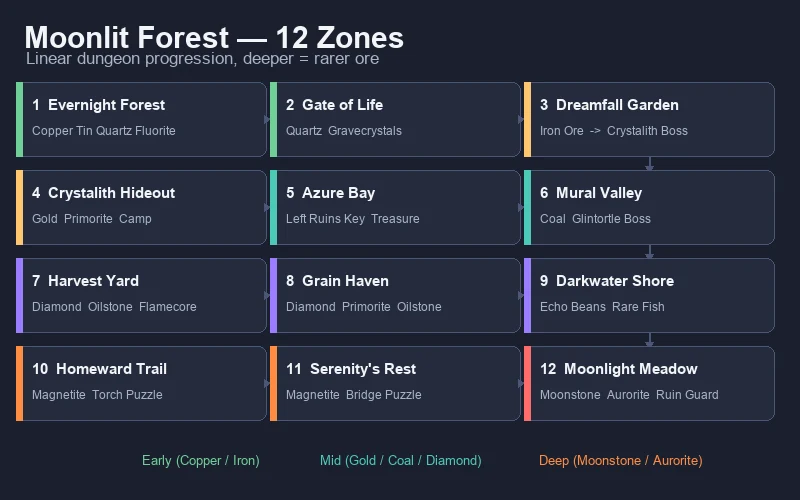
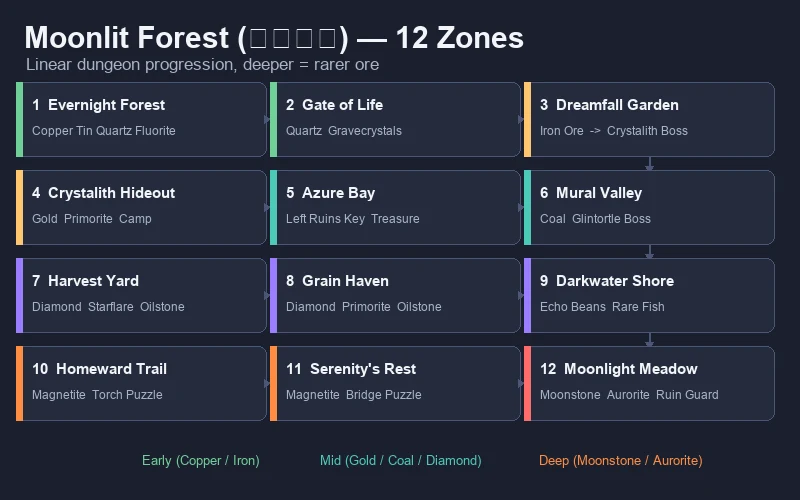
fix: apply polisher review to Starsand Island mining guide — Starflare tier, Electric Drill exception, currency + Chinese names

Changed region(s): [[0.0312, 0.03, 0.6562, 0.15], [0.0938, 0.6, 0.25, 0.63]]

diff --git a/docs/starsand-island/mining-crafting.md b/docs/starsand-island/mining-crafting.md
@@ -8,7 +8,7 @@ date: 2026-08-02
 
 > Game version: Early Access (Feb 12, 2026 launch) | Focus: Mining, Smelting & Tool Progression
 
-I've spent over 70 hours underground in Starsand Island since the EA launch, and mining is where this game quietly turns into a money printer. Farming gets all the attention, but the **Moonlit Forest dungeon** — 12 zones of ores, puzzles, and bosses tucked behind your own house — is the real engine room. Copper and Tin fund your first week, Iron and Gold carry your mid-game, and by the time you're smelting Aurorite at Furnace III, you're effectively self-funding every upgrade in the game.
+I've spent over 70 hours underground in Starsand Island since the EA launch, and mining is where this game quietly turns into a money printer. Farming gets all the attention, but the **Moonlit Forest (荧月之森) dungeon** — 12 zones of ores, puzzles, and bosses tucked behind your own house — is the real engine room. Copper and Tin fund your first week, Iron and Gold carry your mid-game, and by the time you're smelting Aurorite at Furnace III, you're effectively self-funding every upgrade in the game.
 
 This guide covers the entire mining pipeline: unlocking the dungeon, what ore spawns where, every tool tier and what it unlocks, all furnace recipes, and how to turn raw stone into steady gold.
 
@@ -43,12 +43,12 @@ Mining proper doesn't start with a pickaxe in hand — the real content lives be
 
 | Step | What to Do | Requirements |
 |:-----|:-----------|:------------|
-| 1 | Join the **Exploration Club** and talk to **Zephyria** (above Green Pasture Ranch) | — |
+| 1 | Join the **Exploration Club** and talk to **Zephyria (岚)** (above Green Pasture Ranch) | — |
 | 2 | Accept her tutorial quest and craft a **Slingshot** | Slingshot blueprint (workbench) |
 | 3 | Find the **Damaged Door** behind your farmhouse | Walk around the back of your starting plot |
 | 4 | Break the door with the Slingshot | Slingshot + ammo |
 | 5 | Step through the portal in the cavern | — |
-| 6 | Report to Zephyria to unlock the **Exploration skill tab** | — |
+| 6 | Report to Zephyria (岚) to unlock the **Exploration skill tab** | — |
 
 > **Tip:** The exploration path also unlocks your first **camp** and the **Moonweaver fast-travel network**. Do this quest before your first winter — the Furnace and tool upgrades it feeds become your most reliable income source once crops slow down.
 
@@ -56,26 +56,26 @@ Mining proper doesn't start with a pickaxe in hand — the real content lives be
 
 - A **Stone Pickaxe** (starter tool) to clear surface rocks and path debris
 - At least **15 Stamina-restoring food** — early mining eats stamina fast
-- The **Impulse Pickaxe blueprint** (500 coins from Zerine's shop) once you reach **Apprentice Crafter**
+- The **Impulse Pickaxe (冲击镐) blueprint** (500g from **Zerine (百里零)**'s shop) once you reach **Apprentice Crafter**
 
 ---
 
-## Moonlit Forest — 12-Zone Dungeon Walkthrough
+## Moonlit Forest (荧月之森) — 12-Zone Dungeon Walkthrough
 
 ![Starsand Island Moonlit Forest dungeon progression map showing all 12 zones in order](images/moonlit-forest-map.webp)
 
-The Moonlit Forest is a long, largely linear dungeon under the island. It is split into **12 named zones**, each with its own ores, enemies, and puzzles. You never need to memorize the whole thing — just follow the zone order and you will naturally collect the ores you need next.
+The Moonlit Forest (荧月之森) is a long, largely linear dungeon under the island. It is split into **12 named zones**, each with its own ores, enemies, and puzzles. You never need to memorize the whole thing — just follow the zone order and you will naturally collect the ores you need next.
 
 | # | Zone | Key Resources | Enemies / Puzzle | Milestone |
 |:-:|:-----|:--------------|:-----------------|:----------|
-| 1 | **Evernight Forest** | Copper, Tin, Quartz, Fluorite | Minimal | First ore nodes |
-| 2 | **Gate of Life** | Quartz, Gravecrystals | Runebird elite, gate puzzles | Gravestar collection |
-| 3 | **Dreamfall Garden** | **Iron Ore** | Luminpath butterfly puzzle | **Crystalith boss** |
-| 4 | **Crystalith Hideout** | **Gold**, Primorite | 3 hidden Gravestars | Camp + fast travel |
-| 5 | **Azure Bay** | (fishing, treasure) | Luminfrog, elevator | Left Ruins Key |
-| 6 | **Mural Valley** | **Coal** | Glintortle boss, Bronze Gate | Right Ruins Key |
-| 7 | **Harvest Yard** | Diamond, Oilstone, Flamecore | Fire/Water arrow barriers | Late-game ore zone |
-| 8 | **Grain Haven** | Diamond, Oilstone, Primorite | Calm mining zone | Deep mining hub |
+| 1 | **Evernight Forest (永夜森林)** | Copper, Tin, Quartz, Fluorite | Minimal | First ore nodes |
+| 2 | **Gate of Life (生机之门)** | Quartz, Gravecrystals | Runebird elite, gate puzzles | Gravestar collection |
+| 3 | **Dreamfall Garden (梦落花园)** | **Iron Ore** | Luminpath butterfly puzzle | **Crystalith boss** |
+| 4 | **Crystalith Hideout (晶石之家)** | **Gold**, Primorite | 3 hidden Gravestars | Camp + fast travel |
+| 5 | **Azure Bay (碧水峡湾)** | (fishing, treasure) | Luminfrog, elevator | Left Ruins Key |
+| 6 | **Mural Valley (画壁)** | **Coal** | Glintortle boss, Bronze Gate | Right Ruins Key |
+| 7 | **Harvest Yard (丰收谷场)** | Diamond, Starflare Crystal, Oilstone, Flamecore | Fire/Water arrow barriers | Late-game ore zone |
+| 8 | **Grain Haven (眠禾乡)** | Diamond, Oilstone, Primorite | Calm mining zone | Deep mining hub |
 | 9 | **Darkwater Shore** | Echo Beans, rare fish | — | Unique farm crops |
 | 10 | **Homeward Trail** | Magnetite | Torch-lighting puzzle, Runebirds | Puzzle zone |
 | 11 | **Serenity's Rest** | Magnetite | Bridge puzzle (Gravecrystals) | Transition zone |
@@ -93,22 +93,23 @@ Every ore in Starsand Island has a home zone and a minimum tool tier. If your pi
 
 | Ore | First Found In | Tool Required | Smelts Into |
 |:----|:---------------|:--------------|:------------|
-| **Stone** | Surface / everywhere | Stone Pickaxe | Stone Brick |
+| **Stone (石头)** | Surface / everywhere | Stone Pickaxe | Stone Brick |
 | **Clay** | Surface / Evernight Forest | Stone Pickaxe | — (crafting) |
-| **Copper** | Evernight Forest (Zone 1) | Impulse Pickaxe | Copper Ingot → Copper Sheet / Bronze |
-| **Tin** | Evernight Forest (Zone 1) | Impulse Pickaxe | Tin Ingot → Bronze |
-| **Fluorite** | Evernight Forest (Zone 1) | Impulse Pickaxe | Radiant Core; repairs camps (5 per camp) |
-| **Quartz** | Gate of Life (Zone 2) | Impulse Pickaxe | Glass Brick → Glass Pane / Prism |
-| **Iron** | Dreamfall Garden (Zone 3) | Impulse Pickaxe | Iron Ingot → Iron Sheet / Alloy |
-| **Gold** | Crystalith Hideout (Zone 4) | Impact Hammer | Gold Ingot → Gold Sheet / Alloy / jewelry |
-| **Primorite** | Crystalith Hideout (Zone 4) | Impact Hammer | Late-game crafting |
-| **Coal** | Mural Valley (Zone 6) | Impact Hammer | Fuel for Furnace II / III |
+| **Copper (铜矿)** | Evernight Forest (Zone 1) | Impulse Pickaxe | Copper Ingot → Copper Sheet / Bronze |
+| **Tin (锡矿)** | Evernight Forest (Zone 1) | Impulse Pickaxe | Tin Ingot → Bronze |
+| **Fluorite (荧石)** | Evernight Forest (Zone 1) | Impulse Pickaxe | Radiant Core; repairs camps (5 per camp) |
+| **Quartz (石英矿)** | Gate of Life (Zone 2) | Impulse Pickaxe | Glass Brick → Glass Pane / Prism |
+| **Iron (铁矿)** | Dreamfall Garden (Zone 3) | Impulse Pickaxe | Iron Ingot → Iron Sheet / Alloy |
+| **Gold (金矿)** | Crystalith Hideout (Zone 4) | Impact Hammer | Gold Ingot → Gold Sheet / Alloy / jewelry |
+| **Primorite (溯石矿)** | Crystalith Hideout (Zone 4) | Impact Hammer | Late-game crafting |
+| **Coal (煤矿)** | Mural Valley (Zone 6) | Impact Hammer | Fuel for Furnace II / III |
+| **Flamecore (炎髓矿)** | Harvest Yard (Zone 7) | Blast Hammer | Flamecore Ingot (Furnace III) |
 | **Magnetite** | Homeward Trail (Zone 10) | Blast Hammer | Magnet / Alloy |
 | **Moonstone** | Moonlight Meadow (Zone 12) | Blast Hammer | Late-game jewelry / crafting |
 | **Aurorite** | Moonlight Meadow (Zone 12) | Blast Hammer | Aurorite Ingot / Eternal Alloy |
-| **Oilstone** | Harvest Yard (Zone 7) | Electric Drill | Fuel for Furnace III |
-| **Starflare Crystal** | Harvest Yard (Zone 7) | Electric Drill | Starflare Core |
-| **Diamond** | Harvest Yard / Grain Haven / Moonlight Meadow | Blast Hammer (Aurorite Pickaxe for Meadow) | Ultimate-tier jewelry, prestige recipes |
+| **Oilstone (油烬岩)** | Harvest Yard (Zone 7) | Electric Drill | Fuel for Furnace III |
+| **Starflare Crystal** | Harvest Yard (Zone 7) | Impact Hammer | Starflare Core |
+| **Diamond (钻石)** | Harvest Yard / Grain Haven / Moonlight Meadow | Blast Hammer | Ultimate-tier jewelry, prestige recipes |
 
 > **Key takeaway:** the game funnels you through the dungeon exactly as your tools improve. If you feel stuck on progression, the answer is almost always "your pickaxe is one tier behind the zone you are trying to clear."
 
@@ -118,23 +119,25 @@ Every ore in Starsand Island has a home zone and a minimum tool tier. If your pi
 
 ![Starsand Island mining tool upgrade chain from Stone Pickaxe to Electric Drill with crafter tiers](images/pickaxe-progression.webp)
 
-Mining tools follow a single upgrade chain: **Stone Pickaxe → Impulse Pickaxe → Impact Hammer → Blast Hammer → Electric Drill**. From the Impulse Pickaxe onward, each tool **consumes the previous one** as a crafting ingredient — so do not sell or toss your old pickaxe.
+Mining tools follow a single upgrade chain: **Stone Pickaxe → Impulse Pickaxe → Impact Hammer → Blast Hammer → Electric Drill**. From the Impulse Pickaxe through the Blast Hammer, each tool **consumes the previous one** as a crafting ingredient — so do not sell or toss your old pickaxe.
 
-All blueprints come from **Zerine's shop** and only appear once you hit the matching **Crafter certification tier**. You cannot skip tiers.
+All blueprints come from **Zerine (百里零)'s shop** and only appear once you hit the matching **Crafter certification tier**. You cannot skip tiers.
 
 | Tool | Crafter Tier | Blueprint Cost | Crafting Materials | Worktable | Mines |
 |:-----|:-------------|:--------------|:-------------------|:----------|:------|
 | **Stone Pickaxe** | Starter | — | Given at start | — | Stone, Clay, surface rocks |
-| **Impulse Pickaxe** | Apprentice | 500 coins | 10 Copper + 10 Fluorite + 5 Softwood + 5 Quartz + 1 Stone Pickaxe | I | Copper, Tin, Quartz, Fluorite, Clay, Gravecrystals |
-| **Impact Hammer** | Junior | 2,500 coins | 4 Hardwood Planks + 4 Iron Sheets + 2 Radiant Crystals + 3 Bronze + 1 Impulse Pickaxe | II | Gold, Primorite, Coal (+ all previous, incl. Iron) — **AoE swing** |
-| **Blast Hammer** | Intermediate | 8,000 coins | 20 Premium Wood + 5 Alloy + 5 Starflare Crystals + 5 Rubber + 1 Impact Hammer | II | Magnetite, Moonstone, Aurorite, Flamecore, Diamond (+ all previous) — larger AoE |
-| **Electric Drill** | Senior | 22,000 coins | 6 Meteor Planks + 5 Chips + 6 Eternal Alloy + 8 High-Performance Wire Sets | III | **All ores** — unlocks Oilstone & Starflare Crystal, mines nearly instantly |
+| **Impulse Pickaxe** | Apprentice | 500g | 10 Copper + 10 Fluorite + 5 Softwood + 5 Quartz + 1 Stone Pickaxe | I | Copper, Tin, Quartz, Fluorite, Clay, Gravecrystals |
+| **Impact Hammer** | Junior | 2,500g | 4 Hardwood Planks + 4 Iron Sheets + 2 Radiant Cores + 3 Bronze + 1 Impulse Pickaxe | II | Gold, Primorite, Coal, Starflare Crystal (+ all previous, incl. Iron) — **AoE swing** |
+| **Blast Hammer** | Intermediate | 8,000g | 20 Premium Wood + 5 Alloy + 5 Starflare Crystals + 5 Rubber + 1 Impact Hammer | II | Magnetite, Moonstone, Aurorite, Flamecore, Diamond (+ all previous) — larger AoE |
+| **Electric Drill** | Senior | 22,000g | 6 Meteor Planks + 5 Chips + 6 Eternal Alloy + 8 High-Performance Wire Sets | III | **All ores** — unlocks Oilstone, mines nearly instantly |
 
-> **Note on Iron:** Iron Ore is listed under the Impulse Pickaxe because the Impact Hammer's own recipe needs **4 Iron Sheets** — the first Iron you gather (from Dreamfall Garden) has to come from Impulse-tier nodes. The Impact Hammer then turns Iron mining into an AoE sweep. Sources vary on the exact threshold between patches, so if a node refuses to break, that is your tool tier talking.
+> **Electric Drill exception:** the Electric Drill breaks the consume-chain — it is crafted **from scratch** and does **not** consume your Blast Hammer. Build it directly, and keep the Blast Hammer for clearing ore clusters.
+
+> **Note on Iron & Starflare:** Iron Ore is listed under the Impulse Pickaxe because the Impact Hammer's own recipe needs **4 Iron Sheets** — the first Iron you gather (from Dreamfall Garden) has to come from Impulse-tier nodes. Likewise, Starflare Crystal sits at Impact Hammer tier precisely so you can gather the 5 needed for the Blast Hammer's own recipe; the Electric Drill then sweeps everything at near-instant speed. Sources vary on the exact thresholds between patches, so if a node refuses to break, that is your tool tier talking.
 
 ### Upgrade Priorities
 
-- **Impulse Pickaxe first — always.** It is cheap (500 coins), unlocks the entire early dungeon, and lets you break **Gravecrystals**, which you need to progress the main story.
+- **Impulse Pickaxe first — always.** It is cheap (500g), unlocks the entire early dungeon, and lets you break **Gravecrystals**, which you need to progress the main story.
 - **Impact Hammer is the biggest single power spike.** The AoE swing clears ore clusters in one hit instead of one node at a time, and it unlocks Gold and Primorite — while turning Iron mining into a fast sweep. Gold is the ore that pays for everything after it.
 - **Blast Hammer is the point of no return for deep mining.** It consumes your Impact Hammer, so build your **second Impact Hammer before upgrading** if you want to keep one as a melee weapon.
 - **Electric Drill shares its recipe with the Chainsaw** (same materials). If you want both tools, gather the materials **twice**.
@@ -189,7 +192,7 @@ Smelting is only the first step. The full processing ladder looks like this:
 
 The **Ore Analyzer** is an underrated money-maker: build it with **8 Hardwood + 2 Copper Sheets**, feed it the Ore Chunks you find while mining, and it converts them into rare parts that sell well and feed endgame crafting.
 
-> **Rule of thumb:** each extra processing step adds a small premium. Ore → Ingot → Sheet typically adds 1–3 coins per step. The exception is the **Separator**, which *decreases* value — always check shop prices before running items through it.
+> **Rule of thumb:** each extra processing step adds a small premium. Ore → Ingot → Sheet typically adds 1–3g per step. The exception is the **Separator**, which *decreases* value — always check shop prices before running items through it.
 
 ---
 
@@ -218,7 +221,7 @@ Camps are the dungeon's checkpoint system, and they make deep mining sustainable
 
 ![Starsand Island Crystalith boss diagram highlighting the glowing abdomen weak point during the power drain phase](images/crystalith-boss.webp)
 
-The **Crystalith** is the first major boss of the Moonlit Forest, guarding Zone 3 (Dreamfall Garden). Beating it opens **Crystalith Hideout** — your first Gold and Primorite source.
+The **Crystalith** is the first major boss of the Moonlit Forest (荧月之森), guarding Zone 3 (Dreamfall Garden (梦落花园)). Beating it opens **Crystalith Hideout** — your first Gold and Primorite source.
 
 ### Pre-Fight Checklist
 
@@ -240,7 +243,7 @@ The **Crystalith** is the first major boss of the Moonlit Forest, guarding Zone 
 
 The Crystalith periodically walks to the central **Moonweaver crystal** and channels energy — its **abdomen glows bright yellow/orange**. This is your window: attacks deal **double damage** during the Power Drain phase. Circle at medium range, dodge the two telegraphed attacks, and unload everything into the glowing abdomen during the channel. It does **not** actually heal from the crystal, so you never need to interrupt the channel — just punish it.
 
-**After the fight:** the Crystalith Hideout opens with Gold and Primorite deposits, 3 hidden Gravestars, and a repair-able camp (5 Fluorite).
+**After the fight:** the Crystalith Hideout opens with Gold and Primorite deposits, 3 hidden Gravestars, and a repairable camp (5 Fluorite).
 
 ---
 
@@ -259,18 +262,18 @@ Mining is the most consistent **mid-to-late game** income source, and the number
 | Iron Ingot | **66g** | Core mid-game seller |
 | Iron Sheet | **69g** | Thin margin over ingot |
 | Bronze | **58g** | Good value; keep some for crafting |
-| Gold Ingot | **88 coins** | The reliable mid-game money-maker |
-| Diamond | **30 coins** | **Do not sell** — use for crafting/gifts |
+| Gold Ingot | **88g** | The reliable mid-game money-maker |
+| Diamond | **30g** | **Do not sell** — use for crafting/gifts |
 
 ### The Three Mining Income Levers
 
-1. **Smelt your high-value ores, especially Gold and Iron.** Gold Ingots sell for **88 coins** each and Iron Ingots for **66 coins** — far above the raw ore. Copper's processing margin is thin (~1g per ingot after charcoal), so treat Copper mainly as crafting material rather than an income source.
-2. **Gold is your mid-game cash cow.** Once the Impact Hammer unlocks Gold in Zone 4, smelt every Gold Ore into **Gold Ingots (88 coins each)**. This single habit funds the Blast Hammer, which is the most expensive purchase on your early list.
+1. **Smelt your high-value ores, especially Gold and Iron.** Gold Ingots sell for **88g** each and Iron Ingots for **66g** — far above the raw ore. Copper's processing margin is thin (~1g per ingot after charcoal), so treat Copper mainly as crafting material rather than an income source.
+2. **Gold is your mid-game cash cow.** Once the Impact Hammer unlocks Gold in Zone 4, smelt every Gold Ore into **Gold Ingots (88g each)**. This single habit funds the Blast Hammer, which is the most expensive purchase on your early list.
 3. **Hoard for the Merchant Ship.** The Merchant Ship visits Starsand Port on Mondays and pays **200% of base value**. Save your smelted ingots (especially Gold and Iron) across the week and sell them in one trip.
 
 ### What NOT to Do
 
-- **Never sell Diamonds** (30 coins) — they are extremely rare and worth far more as crafting material and gifts.
+- **Never sell Diamonds** (30g) — they are extremely rare and worth far more as crafting material and gifts.
 - **Do not overcraft early.** Burning ore and charcoal to rush a sale delays your tool upgrades, and better tools speed up every other income source.
 - **Skip Ingot → Sheet processing for bulk.** The +1–2g margin is real but slow for large volumes; sheet-making is best when you actually need sheets for crafting.
 
@@ -278,7 +281,7 @@ Mining is the most consistent **mid-to-late game** income source, and the number
 
 ## Crafter Profession & Blueprints
 
-Tool and station progression is gated by the **Crafter profession**, mentored by **Zerine**. You rank up by completing her quests, which unlocks new blueprint tiers in her shop.
+Tool and station progression is gated by the **Crafter profession**, mentored by **Zerine (百里零)**. You rank up by completing her quests, which unlocks new blueprint tiers in her shop.
 
 | Crafter Tier | What It Unlocks |
 |:-------------|:----------------|
@@ -300,14 +303,14 @@ Tool and station progression is gated by the **Crafter profession**, mentored by
 - **Stock up on Wood and Charcoal.** Fuel is the silent bottleneck of the entire mining economy.
 - **Repair camps with Fluorite immediately.** The on-site workbench is the difference between a 3-node trip and a 20-node trip.
 - **Bring stamina-restoring food on every run.** Mining stamina cost is the real gate, not damage.
-- **Mine the dungeon for fast respawns.** Moonlit Forest nodes reset **daily at 20:00**; overworld nodes take **2–3 in-game days** to respawn.
+- **Mine the dungeon for fast respawns.** Moonlit Forest (荧月之森) nodes reset **daily at 20:00**; overworld nodes take **2–3 in-game days** to respawn.
 - **Use the bulletin board for mining requests.** Ore-based requests (Copper, Iron, Gold) are among the easiest 1–2 star requests to fulfill and pay 1,500–2,000g/day combined.
 
 ### ❌ Avoid This
 
 - **Mining past your tool tier.** Wasted stamina on unbreakable nodes is the most common newbie drain.
 - **Selling raw ore.** The smelted product is always worth more; raw is only for emergency cash.
-- **Ignoring Zephyria and Zerine.** Their background buffs (Exploration and Crafting) permanently speed up your runs.
+- **Ignoring Zephyria (岚) and Zerine (百里零).** Their background buffs (Exploration and Crafting) permanently speed up your runs.
 - **Upgrading the Blast Hammer before keeping a spare Impact Hammer.** The upgrade consumes it, and the Impact Hammer is the best melee-cum-mining tool until late game.
 - **Using the Separator blindly.** Some processing steps *lower* value — check prices first.
 
@@ -318,11 +321,13 @@ Tool and station progression is gated by the **Crafter profession**, mentored by
 Here is the loop that got me through year one without ever feeling coin-starved:
 
 1. **Morning:** check the Bulletin Board for ore requests (1–2 stars only).
-2. **Afternoon (20:00 reset):** enter the Moonlit Forest — the nodes have just respawned. Clear your target zone for the current tool tier.
+2. **Afternoon (20:00 reset):** enter the Moonlit Forest (荧月之森) — the nodes have just respawned. Clear your target zone for the current tool tier.
 3. **On site:** smelt at a camp furnace, drop ingots in the camp chest.
 4. **Evening:** head back, smelt the rest at home, and process Ore Chunks through the Analyzer.
 5. **Weekly:** hold smelted ingots for the **Merchant Ship on Monday** for 200% value.
 
 ![Starsand Island miner returning from the Moonlit Forest at dusk carrying a full haul of smelted ingots](images/mining-dusk.webp)
 
-Mining is the quiet engine of Starsand Island. Farm for stability, fish for early cash — but mine for the long game. Once the Impact Hammer unlocks Gold and the dungeon's deep nodes come online, the Moonlit Forest becomes a self-funding machine, and every upgrade you buy makes the next run faster.
+Mining is the quiet engine of Starsand Island. Farm for stability, fish for early cash — but mine for the long game. Once the Impact Hammer unlocks Gold and the dungeon's deep nodes come online, the Moonlit Forest (荧月之森) becomes a self-funding machine, and every upgrade you buy makes the next run faster.
+
+*Guide updated for EA version 0.4.2. Data sourced from in-game testing, the Bilibili Wiki, and community research. Prices in in-game gold (g).*
